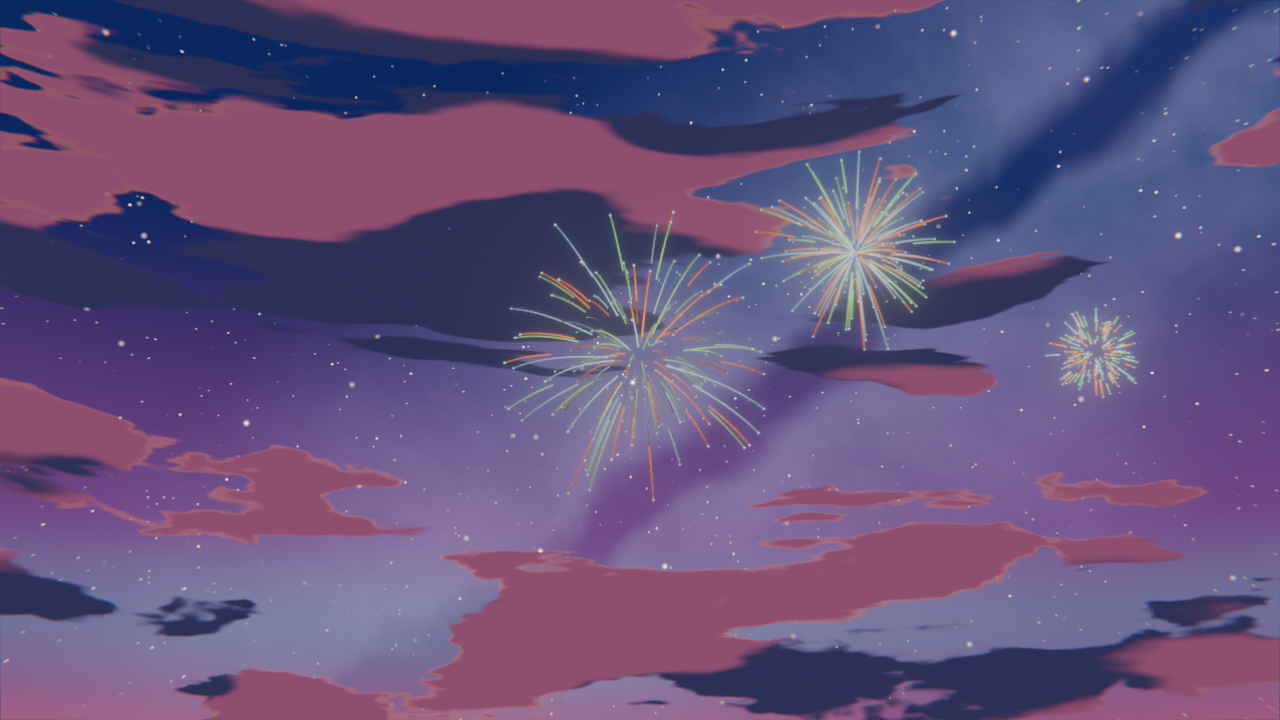
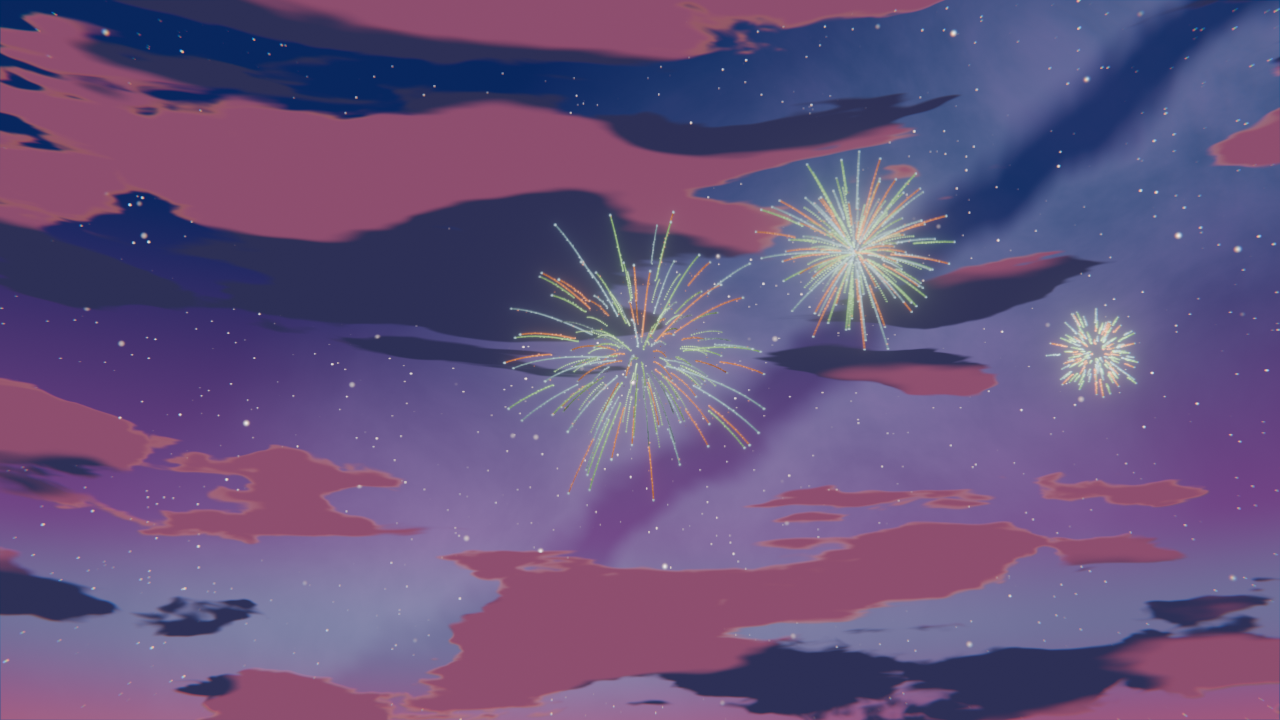
Showcase: the whole stack at 1080p, tuned cloud bands (v2.38.0)

diff --git a/preset_dev/showcase.py b/preset_dev/showcase.py
@@ -1,0 +1,96 @@
+"""Final showcase: the whole stack together at 1920x1080.
+
+A directed five-burst show, the 2.5D cloud bands and the full compositor
+(Cryptomatte FX, painterly filters, ink, light wrap) in one frame, at night and
+at dusk. This is the integration evidence: P1 and P3 (compositing and
+shading), P4 (composition), P5 (clouds) in the same scene.
+
+Run::
+
+    blender -b --factory-startup --python preset_dev/showcase.py
+"""
+
+import json
+import os
+import sys
+
+import bpy
+from mathutils import Vector
+
+HERE = os.path.dirname(os.path.abspath(__file__))
+if HERE not in sys.path:
+    sys.path.insert(0, HERE)
+
+import baseline_fx
+
+OUT = os.path.join(HERE, "showcase")
+AGE = 2.0
+
+
+def build(palette, count, lens, name):
+    scene, camera = baseline_fx.build_scene(None)
+    baseline_fx.enable_addon()
+    from anime_look_director import clouds, fx
+
+    settings = scene.ald
+    settings.palette = palette
+    settings.fx_age = 0.0
+    settings.fx_gn_prototype = True
+    settings.halation_strength = 0.5
+    settings.kuwahara_size = 6.0
+    settings.light_wrap_strength = 0.4
+    settings.light_wrap_size = 24.0
+    settings.shadow_tint_strength = 0.45
+    settings.ink_lines = True
+    settings.depth_near = 20.0
+    settings.depth_far = 320.0
+    settings.fx_glow_strength = 1.0
+    settings.fx_glow_threshold = 0.0
+    settings.fx_glow_size = 0.35
+    settings.clouds_amount = 0.65
+    settings.clouds_height = 0.35
+    bpy.ops.ald.apply_palette()
+    bpy.ops.ald.build()
+
+    fx.create_fireworks(scene, count, seed=23, distance=120.0, time=0.0)
+    bpy.ops.ald.build()
+    system = scene.ald.fx_systems[0]
+    hero = system.events[0]
+    camera.rotation_euler = (Vector(hero.target) - camera.location).to_track_quat(
+        "-Z", "Y").to_euler()
+    camera.data.lens = lens
+    bpy.context.view_layer.update()
+    fps = scene.render.fps / max(scene.render.fps_base, 1e-6)
+    scene.frame_set(int(system.origin_frame + AGE * fps))
+    bpy.context.view_layer.update()
+
+    # The cards are placed along the final camera basis.
+    clouds.create(scene, float(settings.clouds_amount),
+                  float(settings.clouds_height))
+    scene.render.resolution_x = 1920
+    scene.render.resolution_y = 1080
+    baseline_fx.render(scene, os.path.join(OUT, name))
+    events = len(system.events)
+    clouds_count = len(clouds._collection(scene).objects)
+    fx.clear(scene)
+    clouds.remove(scene)
+    return {"file": name, "palette": palette, "bursts": events,
+            "clouds": clouds_count, "age": AGE, "lens": lens}
+
+
+def main():
+    os.makedirs(OUT, exist_ok=True)
+    report = [
+        build("NEON_NIGHT", 5, 35.0, "night_5_bursts.png"),
+        build("TWILIGHT_DUSK", 3, 40.0, "dusk_3_bursts.png"),
+    ]
+    with open(os.path.join(OUT, "showcase.json"), "w", encoding="utf-8") as f:
+        json.dump(report, f, indent=2)
+    for entry in report:
+        print("SHOWCASE", entry["file"], entry["bursts"], "bursts",
+              entry["clouds"], "clouds")
+    return 0
+
+
+if __name__ == "__main__":
+    sys.exit(main())

diff --git a/clouds.py b/clouds.py
@@ -114,7 +114,7 @@ def _material(name, colors):
     links.new(coords.outputs["Generated"], separate.inputs["Vector"])
     noise = nodes.new("ShaderNodeTexNoise")
     noise.location = (-700, 0)
-    noise.inputs["Scale"].default_value = 6.0
+    noise.inputs["Scale"].default_value = 9.0
     noise.inputs["Detail"].default_value = 4.0
     noise.inputs["Roughness"].default_value = 0.55
     links.new(coords.outputs["Generated"], noise.inputs["Vector"])
@@ -158,7 +158,7 @@ def _material(name, colors):
     links.new(light.outputs[0], second_b)
     vertical = nodes.new("ShaderNodeMapRange")
     vertical.location = (-460, 620)
-    vertical.inputs["From Min"].default_value = 0.58
+    vertical.inputs["From Min"].default_value = 0.38
     vertical.inputs["From Max"].default_value = 1.0
     links.new(separate.outputs["Y"], vertical.inputs["Value"])
     links.new(vertical.outputs["Result"], second.inputs["Factor"])
@@ -184,7 +184,7 @@ def create(scene, amount=0.6, height=0.35):
     for index, distance in enumerate(DISTANCES):
         depth = distance * units
         width = depth * 1.7
-        card_height = depth * 0.55
+        card_height = depth * 0.30
         mesh = _cloud_mesh("ALD | Cloud %d" % index, index * 3.7 + 1.0, amount)
         obj = bpy.data.objects.new("ALD | Cloud %d" % index, mesh)
         obj[TAG] = True
@@ -192,7 +192,7 @@ def create(scene, amount=0.6, height=0.35):
         lateral = depth * (-0.22 + 0.22 * index)
         obj.location = (origin + forward * depth
                         + right * lateral
-                        + up * (depth * (0.26 + height * 0.20 + 0.05 * index)))
+                        + up * (depth * (0.30 + height * 0.18 + 0.05 * index)))
         obj.rotation_euler = (origin - obj.location).to_track_quat(
             "Z", "Y").to_euler()
         obj.scale = (width, card_height, 1.0)

diff --git a/preset_dev/audit_plan.py b/preset_dev/audit_plan.py
@@ -265,6 +265,15 @@ CHECKS = [
      lambda: (exists("preset_dev/temporal_strip.py")[0]
               and exists("preset_dev/temporal/sheet.png")[0],
               "preset_dev/temporal/temporal.json")),
+    # ---- Showcase (v2.38) ------------------------------------------------
+    ("VI-ALL", "A 1080p showcase with the whole stack",
+     lambda: (exists("preset_dev/showcase.py")[0]
+              and exists("preset_dev/showcase/night_5_bursts.png")[0]
+              and exists("preset_dev/showcase/dusk_3_bursts.png")[0],
+              "preset_dev/showcase/showcase.json")),
+    ("VI-ALL", "The cloud band is a depth layer, not a wall",
+     lambda: has("clouds.py", "card_height = depth * 0.30",
+                 "0.30 + height * 0.18")),
 ]
 
 

diff --git a/__init__.py b/__init__.py
@@ -1,7 +1,7 @@
 bl_info = {
     "name": "Anime Look Director",
     "author": "Riccardo",
-    "version": (2, 37, 0),
+    "version": (2, 38, 0),
     "blender": (5, 1, 0),
     "location": "Scene Properties > Anime Look Director",
     "description": "Atmospheric palettes and a non-destructive anime compositor stack",

diff --git a/preset_dev/verify.py b/preset_dev/verify.py
@@ -16,7 +16,7 @@ import numpy as np
 
 MODULE = "anime_look_director"
 ADDON_PATH = os.path.dirname(os.path.dirname(os.path.abspath(__file__)))
-EXPECTED_VERSION = (2, 37, 0)
+EXPECTED_VERSION = (2, 38, 0)
 TOLERANCE = 1e-4
 
 

diff --git a/AGENTS.md b/AGENTS.md
@@ -6,7 +6,7 @@ Blender add-on: atmospheric palettes + non-destructive anime compositor stack.
 - Blender **5.1.2** on Windows (compositor node-group API `scene.compositing_node_group`).
 - Python 3.13 / NumPy available inside Blender. No external dependencies.
 - GPL-3.0-or-later. Version in `bl_info` and `blender_manifest.toml` must match
-  (currently **2.37.0**).
+  (currently **2.38.0**).
 
 ## Verify (run after every change)
 ```powershell
@@ -601,6 +601,14 @@ Prints luminance / contrast / saturation per palette and writes `sheet.png`.
   - the temporal strip (`preset_dev/temporal_strip.py`) covers 0.10..2.20 s
     for the Chrysanthemum and the Willow and is the frame-by-frame evidence
     the matrix cannot give.
+- Showcase rules (v2.38):
+  - `preset_dev/showcase.py` renders the whole stack at 1920x1080: a five-burst
+    night show and a three-burst dusk show, with the cloud layer created after
+    the final camera basis;
+  - the cloud band is 0.30x the distance tall and sits at 0.30 + 0.18*height of
+    the distance: a taller band reads as a wall, not as a depth layer;
+  - `preset_dev/clouds/` must be regenerated whenever the band geometry or the
+    palette mixing changes.
 - 2.25 rules:
   - `fx._scene_id` writes `settings.fx_uid` inside a `try/except`: the identity
     lives in `scene[ald_fx_id]` and the settings cache is best-effort only.

diff --git a/RECAP.md b/RECAP.md
@@ -1,6 +1,6 @@
 # Anime Look Director — Recap
 
-**Versione 2.37.0** · Blender 5.1.2 · GPL-3.0-or-later
+**Versione 2.38.0** · Blender 5.1.2 · GPL-3.0-or-later
 
 ## In breve
 
@@ -80,6 +80,16 @@ Non salva mai il `.blend` dell'utente e non richiede dipendenze esterne.
 26. **Diagnostica e benchmark** — report esplicito `Diagnose FX` (read-only nel
     pannello, stato `UNKNOWN` finché non viene calcolato) e benchmark separati
     per creazione, update, clock, frame, memoria e render.
+
+## Novità 2.38.0 — showcase d'integrazione
+
+- **Fasce 2.5D assottigliate** (0.30× la distanza, prima 0.55×), alzate e con
+  più contrasto: leggono come strato di profondità, non come parete al centro
+  del cielo; la luce di palette parte al 38% dell'altezza.
+- **Showcase 1920×1080** in `preset_dev/showcase/`: cinque burst notturni e tre
+  al tramonto con nuvole e compositing completo — l'evidenza che P1, P3, P4 e
+  P5 convivono nello stesso frame.
+- Evidenza nuvole rigenerata in `preset_dev/clouds/`.
 
 ## Novità 2.37.0 — verifica UI e striscia temporale
 

diff --git a/README.md b/README.md
@@ -2,7 +2,7 @@
 
 Atmospheric palettes and a non-destructive anime compositor stack for Blender 5.1+.
 
-## What it does (v2.37.0)
+## What it does (v2.38.0)
 - Seven atmosphere presets (Golden Hour, **After School Sunset**, Summer Noon,
   Rainy Tokyo, Cyberpunk Neon, Sakura Spring, Twilight Dusk) with a
   Scene-Linear Rec.709 color script calibrated for AgX.
@@ -240,7 +240,9 @@ Expected output: `ALD GATE: PASS`.
 - v2.36.0 - P6: validation matrix 3 palettes x 4 families x 3 ages, per-cell
   metrics and contact sheet, 36/36 PASS; apparent-size floor for the beads
 - v2.37.0 - verification: fixed the broken World panel (invalid CLOUD icon),
-  wired the UI icon/parity checks, absolute UI probe paths, temporal strip (current)
+  wired the UI icon/parity checks, absolute UI probe paths, temporal strip
+- v2.38.0 - cloud bands tuned as a depth layer; 1920x1080 integration showcase
+  (night 5 bursts, dusk 3 bursts) with the whole stack (current)
 
 ## Recap
 Italian overview of the whole add-on: [`RECAP.md`](RECAP.md).

diff --git a/CHANGELOG.md b/CHANGELOG.md
@@ -1,6 +1,22 @@
 # Changelog
 
-## 2.37.0 - 2026-10-26
+## 2.38.0 - 2026-10-26
+Integration showcase and cloud tuning.
+
+### Changed
+- The 2.5D cloud bands are thinner (0.30x the distance, was 0.55x), higher and
+  with more noise contrast: they read as a depth layer instead of a wall in the
+  middle of the sky. The palette light starts at 38 % of the band height.
+
+### Added
+- `preset_dev/showcase.py`: the whole stack in one frame at 1920x1080, a
+  five-burst night show and a three-burst dusk show, both with the cloud layer
+  and the full compositor. Evidence in `preset_dev/showcase/`.
+
+### Evidence
+- `preset_dev/clouds/` regenerated with the tuned bands (dusk off/on, night).
+
+## 2.37.0 - 2026-10-26## 2.37.0 - 2026-10-26
 Verification pass: the UI probe found a broken panel.
 
 ### Fixed
